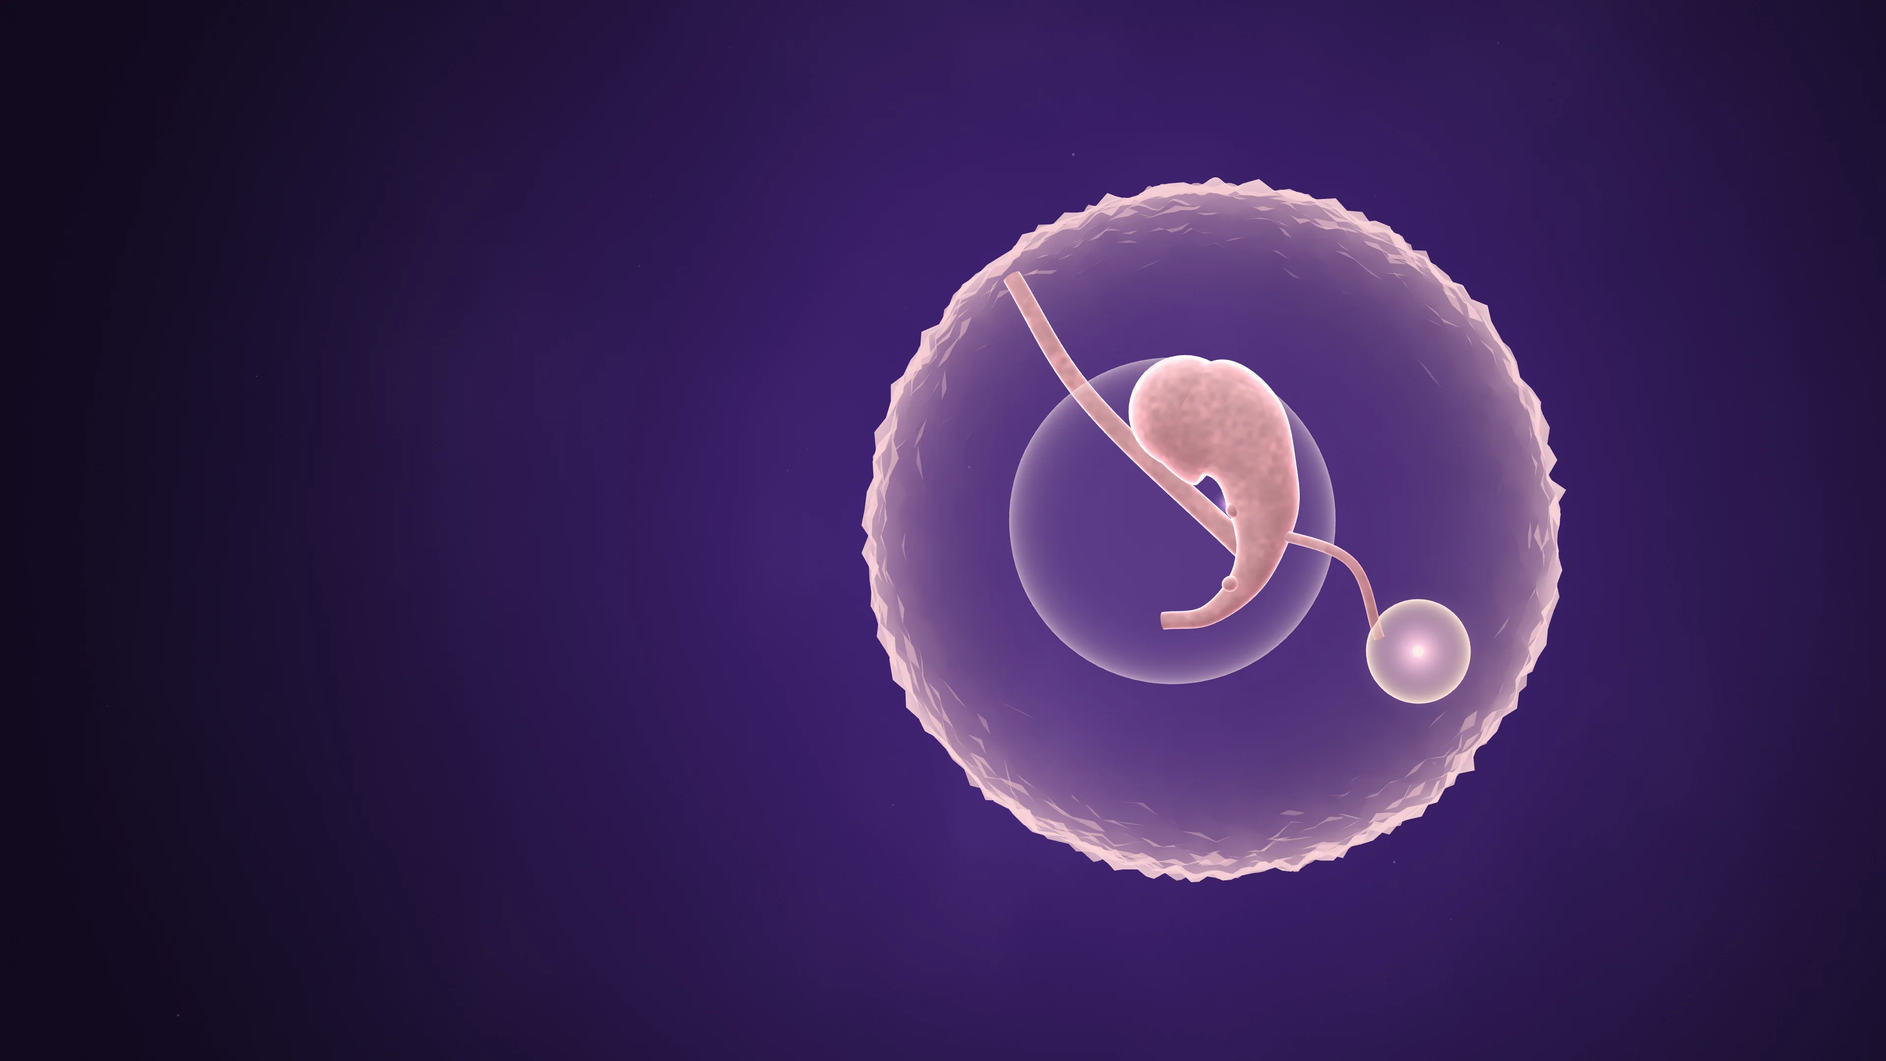
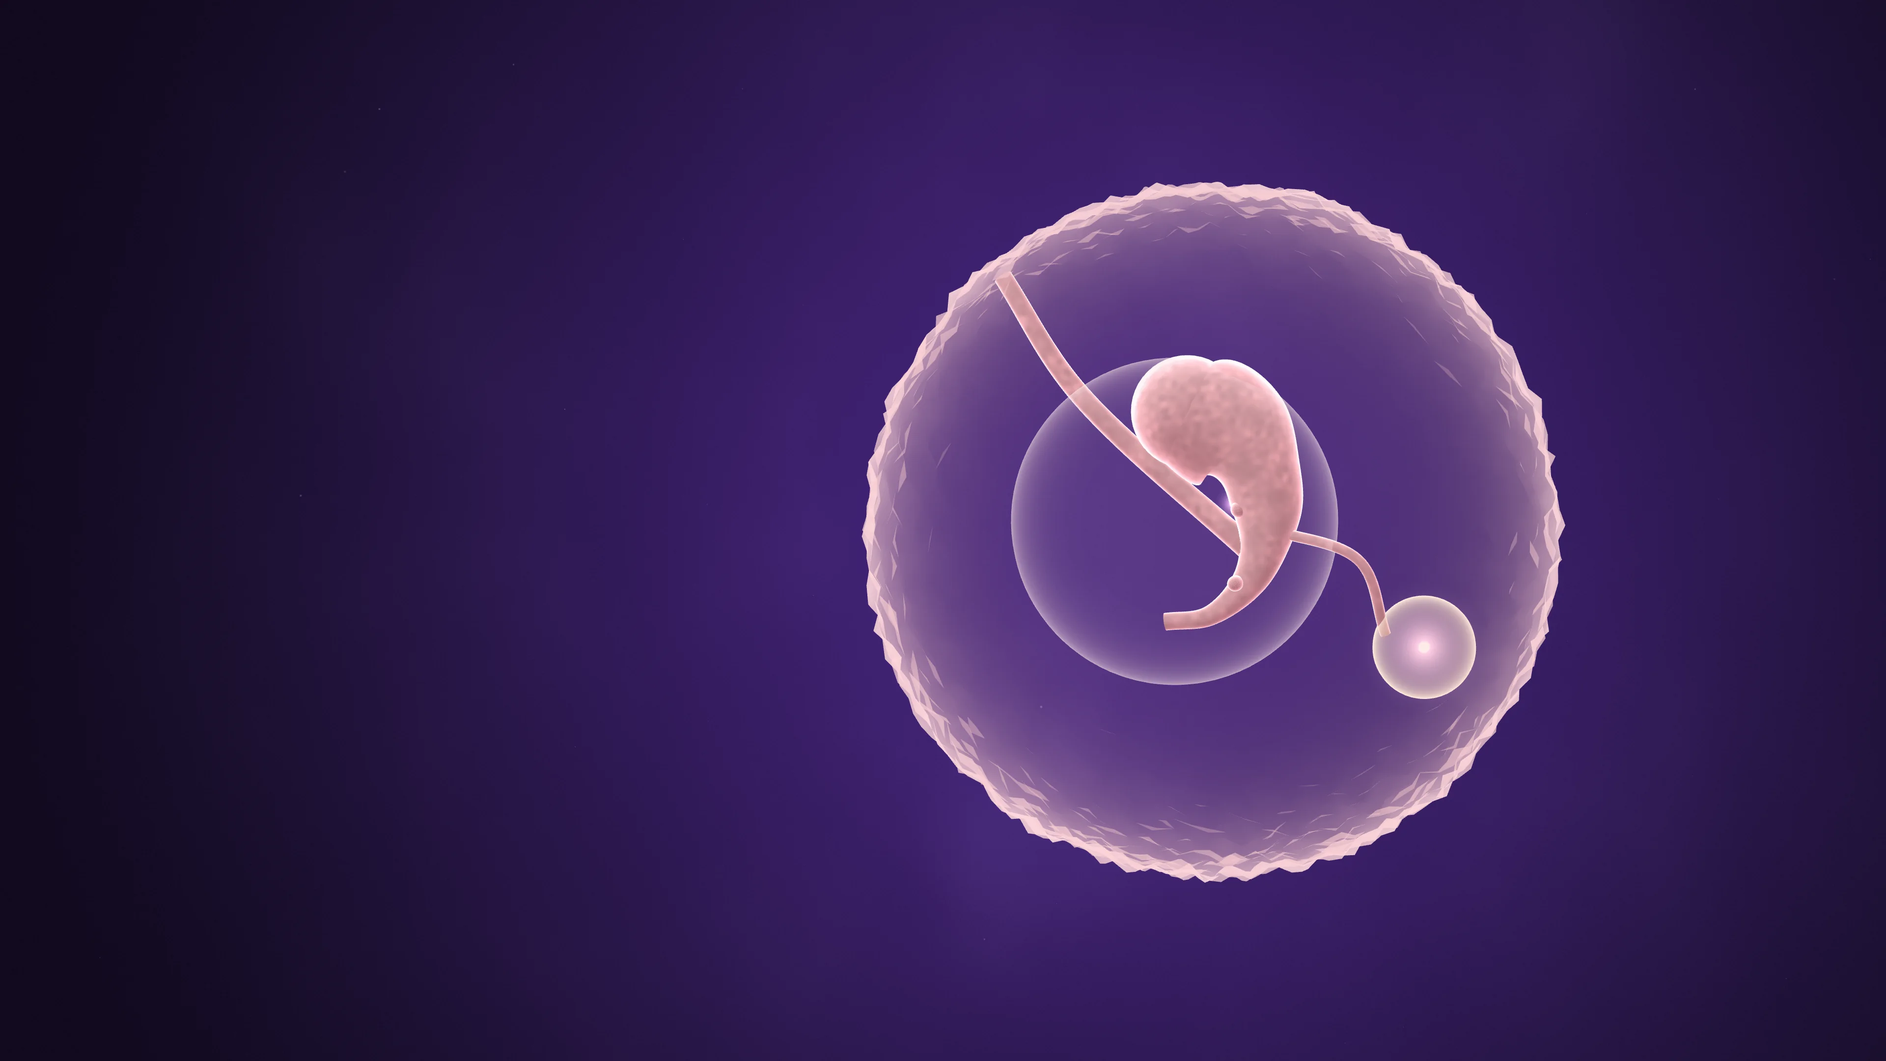
Story review fixes: always-on illustration notice, careful copy, a clothed figure
From an independent compliance and patient-sensitivity review of the new story:
- The "Illustration, not to scale · not a patient's treatment or result" notice
  now stays on screen for the whole story, phones included.
- Copy states risks instead of promising safety or comfort: monitoring lets the
  doctor adjust the dose and watch for side effects; egg collection is "a short
  procedure, under sedation" with cramping mentioned; AMH and follicle counts do
  not predict pregnancy; freezing embryos needs consent; bed rest is not needed;
  the early scan is dated, and no scan can promise how a pregnancy will go.
- Inclusive of single women; sperm preparation separates moving sperm rather
  than "selecting" them; the last chapter is "Every hope matters" and its
  buttons say what they do.
- The sculpture reads as clothed (a bodice, a neckline and a pallu), the belly
  window is soft lavender rather than a wine red that could read as bleeding,
  and the baby is porcelain cream rather than pink.
- Sculpture raymarch budgets scale with the GPU tier for phones.

diff --git a/src/lib/life/story.ts b/src/lib/life/story.ts
@@ -34,7 +34,7 @@ export const chapters: Chapter[] = [
   { n: 8, id: "implantation", title: "Implantation and the pregnancy test", from: 72, to: 78, anchor: 73.4 },
   { n: 9, id: "early-scan", title: "The early scan", from: 78, to: 85, anchor: 79.4 },
   { n: 10, id: "pregnancy", title: "Pregnancy", from: 85, to: 94, anchor: 86.4 },
-  { n: 11, id: "moment", title: "The moment that matters", from: 94, to: 100, anchor: 96.2 },
+  { n: 11, id: "moment", title: "Every hope matters", from: 94, to: 100, anchor: 96.2 },
 ];
 
 /** Which rendered scene is on screen for a given unit. Boundaries are hidden by a veil. */
@@ -137,7 +137,7 @@ export const captions: Caption[] = [
   cap(S.lab, 58.9, 62.3, "Fig. 6e", "Blastocyst: inner cell mass, outer layer and cavity", "about days 5–6"),
   cap(S.transfer, 63.2, 76.2, "Fig. 7", "Embryo transfer through the cervix, side view (embryo shown enlarged)"),
   cap(S.implant, 63.2, 67.2, "Fig. 8", "The blastocyst hatches from its shell, the zona", "about day 6"),
-  cap(S.implant, 67.2, 71.8, "Fig. 8a", "Implantation: the blastocyst begins to attach to the lining of the uterus (illustration)", "about days 6–10 after fertilisation"),
+  cap(S.implant, 67.2, 71.8, "Fig. 8a", "Implantation: the blastocyst begins to attach to the lining of the uterus (illustration)", "about days 6–10"),
   cap(S.scan, 77.2, 85.2, "Fig. 9", "Early pregnancy at about 7 weeks: gestational sac, yolk sac and a 1 cm embryo"),
   cap(S.life, 13, 23, "Fig. 10", "About 12 weeks: around 6 cm from head to bottom (illustration)"),
   cap(S.life, 23.5, 37, "Fig. 10a", "About 20 weeks: around 25 cm from head to heel"),
@@ -178,7 +178,7 @@ export const panels: Panel[] = [
     label: "Understanding fertility",
     heading: "Understanding your fertility is the *first step.*",
     level: 2,
-    body: ["Every person's fertility is different. That's why each journey at Momtree begins with an individual assessment of both partners, before any treatment is suggested."],
+    body: ["Every person's fertility is different. That's why each journey at Momtree begins with an assessment of you and, if you have one, your partner, before any treatment is suggested."],
   },
   {
     id: "c2b",
@@ -187,7 +187,7 @@ export const panels: Panel[] = [
     to: 18.4,
     heading: "What the first tests look at",
     level: 3,
-    body: ["Blood tests such as AMH, and an ultrasound count of the small resting follicles in each ovary, help estimate the egg supply. A semen analysis looks at sperm count, movement and shape."],
+    body: ["A blood test (AMH) and an ultrasound count of the small resting follicles help estimate the egg supply; on their own, they do not predict pregnancy. A semen analysis looks at sperm count, movement and shape."],
   },
   {
     id: "c3a",
@@ -197,13 +197,13 @@ export const panels: Panel[] = [
     label: "Ovarian stimulation",
     heading: "Growing *several eggs*, carefully.",
     level: 2,
-    body: ["For about 8 to 14 days, daily hormone injections encourage several follicles to grow at once. Regular ultrasound scans and blood tests follow their progress and keep the treatment safe."],
+    body: ["For about 8 to 14 days, daily hormone injections encourage several follicles to grow at once. Regular scans and blood tests follow their progress, so your doctor can adjust the dose and watch for side effects."],
   },
   {
     id: "c3b",
     chapter: 3,
-    from: 24.8,
-    to: 27.6,
+    from: 24.6,
+    to: 28.0,
     heading: "The trigger",
     level: 3,
     body: ["When the follicles are ready, a final trigger injection completes the eggs' maturation. Egg collection is timed for about 36 hours later."],
@@ -211,18 +211,18 @@ export const panels: Panel[] = [
   {
     id: "c4a",
     chapter: 4,
-    from: 28.8,
-    to: 32.4,
+    from: 28.6,
+    to: 32.2,
     label: "Egg collection",
-    heading: "A short, *gentle* procedure.",
+    heading: "A short procedure, *under sedation.*",
     level: 2,
-    body: ["Under sedation, a fine needle guided by ultrasound passes through the vaginal wall into each follicle and draws off the fluid. It usually takes 15 to 30 minutes."],
+    body: ["A fine needle, guided by ultrasound, passes through the vaginal wall into each follicle and draws off the fluid. It usually takes 15 to 30 minutes, and some cramping afterwards is common."],
   },
   {
     id: "c4b",
     chapter: 4,
-    from: 32.8,
-    to: 35.6,
+    from: 32.6,
+    to: 35.9,
     heading: "Into the laboratory",
     level: 3,
     body: ["An embryologist looks through the fluid for eggs under a microscope. Not every follicle holds an egg, and not every egg is mature."],
@@ -235,7 +235,7 @@ export const panels: Panel[] = [
     label: "Fertilisation",
     heading: "Where science meets the *possibility* of life.",
     level: 2,
-    body: ["The same day, the semen sample is washed and the most active sperm are selected. In conventional IVF, each egg is then placed with thousands of these sperm, and fertilisation is left to happen on its own."],
+    body: ["The same day, the semen sample is washed to separate the moving sperm. In conventional IVF, each egg is then placed with thousands of these sperm, and fertilisation is left to happen on its own."],
   },
   {
     id: "c5b",
@@ -257,7 +257,7 @@ export const panels: Panel[] = [
     label: "Embryo development",
     heading: "A remarkable journey, measured in the *smallest beginnings.*",
     level: 2,
-    body: ["About a day after fertilisation, two pronuclei appear. Then the cell divides: two cells, four, eight. By day four, the cells draw tightly together into a morula."],
+    body: ["The next day, two small round pronuclei show that the egg has been fertilised. Then the cell divides: two cells, four, eight. By day four, the cells draw tightly together into a ball called a morula."],
   },
   {
     id: "c6b",
@@ -267,7 +267,7 @@ export const panels: Panel[] = [
     heading: "Blastocyst culture",
     level: 3,
     body: [
-      "By day five or six, some embryos become blastocysts, with an inner cell mass and an outer layer that may form the placenta. Suitable embryos that are not transferred can be frozen for later.",
+      "By day five or six, some embryos become blastocysts, with an inner cell mass and an outer layer that may form the placenta. With your consent, suitable embryos that are not transferred can be frozen for later use.",
       "Not every embryo reaches this stage, and that is part of normal biology.",
     ],
   },
@@ -288,19 +288,19 @@ export const panels: Panel[] = [
     to: 71.6,
     heading: "After the transfer",
     level: 3,
-    body: ["Hormone support, usually progesterone, helps prepare the lining of the uterus. Whether the embryo implants happens on its own and cannot be guaranteed."],
+    body: ["Hormone support, usually progesterone, helps prepare the lining of the uterus. Bed rest is not needed. No one can guarantee that the embryo will implant."],
   },
   {
     id: "c8",
     chapter: 8,
-    from: 72.8,
-    to: 77.6,
+    from: 72.6,
+    to: 77.9,
     label: "Implantation and the pregnancy test",
     heading: "The *two-week* wait.",
     level: 2,
     body: [
-      "If an embryo implants, it hatches from its shell and settles into the lining of the uterus, usually within a few days of a blastocyst transfer. About two weeks after transfer, a blood test for the pregnancy hormone hCG shows whether this has happened.",
-      "Not every transfer leads to a pregnancy. Whatever the result, we talk it through with you and plan the next step together.",
+      "Over the next few days, the embryo may implant in the lining of the uterus. About two weeks after transfer, a blood test for the pregnancy hormone hCG shows whether this has happened.",
+      "Not every transfer leads to a pregnancy. Whatever the result, we will talk it through with you and help you decide what comes next.",
     ],
   },
   {
@@ -311,7 +311,7 @@ export const panels: Panel[] = [
     label: "The early scan",
     heading: "Hope takes a *new shape.*",
     level: 2,
-    body: ["An early ultrasound scan, often at six to seven weeks, checks that the pregnancy is in the uterus and looks for a heartbeat."],
+    body: ["An early ultrasound scan, often at six to seven weeks of pregnancy (about three to four weeks after transfer), checks that the pregnancy is in the uterus and looks for a heartbeat. It is still early, and no scan can promise how a pregnancy will go."],
   },
   {
     id: "c10a",

diff --git a/src/lib/life/scenes/sculpture.ts b/src/lib/life/scenes/sculpture.ts
@@ -141,8 +141,14 @@ vec2 mapFigure(vec3 p){
   d = smin(d, sdEllipsoid(p - vec3(0.0, 0.9, -0.012), vec3(0.168, 0.12, 0.114)), 0.08);
   d = smin(d, sdEllipsoid(p - vec3(0.0, 1.045, 0.0), vec3(0.124, 0.15, 0.088)), 0.08);
   d = smin(d, sdEllipsoid(p - vec3(0.0, 1.235, 0.004), vec3(0.146, 0.168, 0.094)), 0.07);
-  vec3 pb = vec3(abs(p.x), p.y, p.z);
-  d = smin(d, sdEllipsoid(pb - vec3(0.058, 1.228, 0.056), vec3(0.048, 0.045, 0.038)), 0.05);
+  // A soft bodice across the chest (no separate bust or cleavage line), a fine neckline, and a
+  // pallu draped from her left shoulder across the chest, so she reads as clothed.
+  d = smin(d, sdEllipsoid(p - vec3(0.0, 1.222, 0.03), vec3(0.13, 0.06, 0.07)), 0.06);
+  vec3 nq = p - vec3(0.0, 1.372, 0.004);
+  d = smin(d, length(vec2(length(nq.xz * vec2(1.0, 1.25)) - 0.052, nq.y)) - 0.009, 0.012);
+  float pallu = sdCapsule(p, vec3(0.13, 1.392, 0.0), vec3(0.02, 1.225, 0.116), 0.021);
+  pallu = min(pallu, sdCapsule(p, vec3(0.02, 1.225, 0.116), vec3(-0.115, 1.035, 0.098), 0.021));
+  d = smin(d, pallu, 0.028);
   d = smin(d, sdCapsule(p, vec3(-0.142, 1.358, -0.016), vec3(0.142, 1.358, -0.016), 0.043), 0.065);
   d = smin(d, sdCapsule(p, vec3(0.0, 1.37, -0.005), NECK_TOP, 0.037), 0.045);
   d = smin(d, sdHead(p), 0.03);
@@ -208,7 +214,7 @@ vec3 fetusNormal(vec3 p){
 }
 float figureAO(vec3 p, vec3 n){
   float occ = 0.0, sca = 1.0;
-  for (int i = 0; i < 5; i++) {
+  for (int i = 0; i < AOS; i++) {
     float h = 0.008 + 0.045 * float(i);
     occ += (h - mapFigure(p + n * h).x) * sca;
     sca *= 0.72;
@@ -242,11 +248,12 @@ vec3 porcelain(vec3 p, vec3 n, vec3 rd, float mat){
   return c;
 }
 vec3 inner(vec3 p, vec3 n, vec3 rd, float mat){
-  vec3 base = mat < 4.5 ? vec3(1.0, 0.8, 0.78) : (mat < 5.5 ? vec3(0.66, 0.26, 0.34) : vec3(0.92, 0.86, 0.96));
+  // Porcelain cream for the baby (no pink or blue), a muted rose placenta, a pearly cord.
+  vec3 base = mat < 4.5 ? vec3(0.97, 0.9, 0.85) : (mat < 5.5 ? vec3(0.74, 0.46, 0.56) : vec3(0.92, 0.86, 0.96));
   vec3 L = normalize(vec3(-0.4, 0.8, 0.6));
   float wrap = clamp((dot(n, L) + 0.6) / 1.6, 0.0, 1.0);
   float fres = pow(1.0 - clamp(dot(n, -rd), 0.0, 1.0), 2.0);
-  return base * (0.32 + 0.78 * wrap) + vec3(1.0, 0.72, 0.78) * fres * 0.32;
+  return base * (0.32 + 0.78 * wrap) + vec3(0.92, 0.86, 1.0) * fres * 0.32;
 }
 
 vec2 cylinder(vec3 ro, vec3 rd, float r){
@@ -300,13 +307,13 @@ void main(){
       vec3 wq = (P - uWinC) / uWinR;
       float win = uGlass * smoothstep(1.32, 0.86, length(wq)) * smoothstep(-0.2, 0.3, dot(n, normalize(P - uWinC))) * step(res.y, 1.1);
       if (win > 0.003) {
-        vec3 amnion = vec3(0.3, 0.1, 0.2);
+        vec3 amnion = vec3(0.52, 0.44, 0.64); // soft lavender, never wine red
         vec3 seen = amnion + uGlowCol * 0.12;
         if (uFetusOn > 0.5) {
           float ft = 0.002;
           float fh = -1.0;
           vec2 fr = vec2(0.0);
-          for (int i = 0; i < 56; i++) {
+          for (int i = 0; i < FSTEPS; i++) {
             vec3 q = P + rd * ft;
             fr = mapFetus(q);
             if (fr.x < 0.0004) { fh = ft; break; }
@@ -406,13 +413,16 @@ export class SculptureScene implements StoryScene {
     this.id = beats.id;
     this.beats = beats;
     this.rig = new Rig(beats.camera);
+    // Raymarch budgets by GPU tier: the figure, the view through the belly window, and occlusion.
     const steps = tier === "high" ? 110 : tier === "mid" ? 84 : 64;
+    const fsteps = tier === "high" ? 56 : tier === "mid" ? 40 : 30;
+    const aos = tier === "high" ? 5 : 3;
     const vec = () => ({ value: new THREE.Vector3() });
     const m3 = () => ({ value: new THREE.Matrix3() });
     this.mat = new THREE.ShaderMaterial({
       vertexShader: QUAD_VERT,
       fragmentShader: FRAG,
-      defines: { STEPS: steps },
+      defines: { STEPS: steps, FSTEPS: fsteps, AOS: aos },
       depthTest: true,
       depthWrite: true,
       depthFunc: THREE.AlwaysDepth,

diff --git a/src/components/life/LifeUnfolds.tsx b/src/components/life/LifeUnfolds.tsx
@@ -340,26 +340,29 @@ export function LifeUnfolds() {
             {p.cta === "final" && (
               <div className="mt-9 flex flex-wrap gap-3">
                 <Link href="/contact#appointment" className="btn btn-leaf">
-                  Begin your journey <ArrowRight />
+                  Book a consultation <ArrowRight />
                 </Link>
-                <a href={whatsappLink("Hello Momtree IVF, I would like to speak with your fertility specialist.")} target="_blank" rel="noopener noreferrer" className="btn btn-light">
-                  Talk to our fertility specialist
+                <a href={whatsappLink()} target="_blank" rel="noopener noreferrer" className="btn btn-light">
+                  Message us on WhatsApp
                 </a>
               </div>
             )}
           </article>
         ))}
 
-        {/* Figure caption, day counter, scale bar */}
-        <div ref={capWrap} className="life-caption" style={{ opacity: 0 }} aria-hidden="true">
-          <span ref={capFig} className="life-fig" />
-          <span ref={capText} className="life-captext" />
-          <span ref={capDay} className="life-day" />
-          <div ref={scaleEl} className="life-scale" style={{ opacity: 0 }}>
-            <span ref={scaleBar} className="life-scale-bar" />
-            <span ref={scaleLabel} className="life-scale-label" />
+        {/* Figure caption, day counter, scale bar. The illustration notice sits outside the fading part,
+            so it stays on screen for the whole story. */}
+        <div className="life-caption" aria-hidden="true">
+          <div ref={capWrap} className="life-caption-body" style={{ opacity: 0 }}>
+            <span ref={capFig} className="life-fig" />
+            <span ref={capText} className="life-captext" />
+            <span ref={capDay} className="life-day" />
+            <div ref={scaleEl} className="life-scale" style={{ opacity: 0 }}>
+              <span ref={scaleBar} className="life-scale-bar" />
+              <span ref={scaleLabel} className="life-scale-label" />
+            </div>
           </div>
-          <span className="life-illus">Illustrative visualisation · not an individual outcome</span>
+          <span className="life-illus">{"Illustration, not to scale · not a patient's treatment or result"}</span>
         </div>
 
         {/* Bottom HUD: growth rings + chapter, skip, sound */}
@@ -583,11 +586,11 @@ function StaticStory() {
                     {p.cta && (
                       <div className="mt-8 flex flex-wrap gap-3">
                         <Link href="/contact#appointment" className={`btn ${dark ? "btn-light" : "btn-solid"}`}>
-                          {p.cta === "hero" ? "Book a consultation" : "Begin your journey"}
+                          Book a consultation
                         </Link>
                         {p.cta === "final" && (
                           <a href={whatsappLink()} target="_blank" rel="noopener noreferrer" className="btn">
-                            Talk to our fertility specialist
+                            Message us on WhatsApp
                           </a>
                         )}
                       </div>
@@ -604,7 +607,7 @@ function StaticStory() {
                 {c.n > 1 && (
                   <figcaption>
                     <span className="pl">Fig. {c.n}</span>
-                    <span>{c.title}. {photo ? "AI-generated image, not a patient." : "Illustrative visualisation, not to scale; not an individual outcome."}</span>
+                    <span>{c.title}. {photo ? "AI-generated image, not a patient." : "Illustration, not to scale; not a patient's treatment or result."}</span>
                   </figcaption>
                 )}
               </figure>

diff --git a/src/lib/life/scenes/specimen.ts b/src/lib/life/scenes/specimen.ts
@@ -546,7 +546,7 @@ export class SpecimenScene implements StoryScene {
         { id: "pronuclei", pos: w(new THREE.Vector3(0.12, 0.13, 0.05)), a: windowed(u, 41.8, 44.4) },
         { id: "icm", pos: this.body.localToWorld(this.icmCentre.clone().add(new THREE.Vector3(0, 0.05, 0))), a: windowed(u, 59.4, 62.2) },
         { id: "hatch", pos: this.body.localToWorld(new THREE.Vector3(0, 0, 0)).add(new THREE.Vector3(0, 0.78, 0.2)), a: windowed(u, 64, 67.2) },
-        { id: "endometrium", pos: w(new THREE.Vector3(1.05, 0.95, -1.15)), a: windowed(u, 67.4, 71.8) },
+        { id: "endometrium", pos: w(new THREE.Vector3(-0.9, 0.75, -1.15)), a: windowed(u, 67.4, 71.8) },
         { id: "te", pos: w(new THREE.Vector3(0.62, -0.25, 0.1)), a: windowed(u, 59.8, 62.2) },
         { id: "cavity", pos: w(new THREE.Vector3(-0.05, -0.18, 0.1)), a: windowed(u, 60.2, 62.2) },
       ],

diff --git a/src/components/life/life.css b/src/components/life/life.css
@@ -248,12 +248,21 @@
   letter-spacing: 0.16em;
   font-variant-numeric: tabular-nums;
 }
+.life-caption-body {
+  display: flex;
+  flex-direction: column;
+  gap: 4px;
+  align-items: flex-end;
+}
 .life-illus {
   margin-top: 14px;
   font-size: 10px;
   letter-spacing: 0.14em;
   text-transform: uppercase;
-  opacity: 0.65;
+  color: rgb(255 255 255 / 0.85);
+  text-shadow:
+    0 0 2px rgb(14 7 25 / 0.9),
+    0 1px 10px rgb(14 7 25 / 0.7);
 }
 
 /* ---------------------------------------------------------------- bottom HUD */
@@ -397,9 +406,13 @@
     right: var(--gutter);
     width: 62vw;
   }
-  .life-captext,
-  .life-illus {
+  .life-captext {
     display: none;
+  }
+  .life-illus {
+    margin-top: 8px;
+    font-size: 8.5px;
+    letter-spacing: 0.1em;
   }
   .life-label {
     font-size: 9.5px;

diff --git a/docs/APPROVAL-CHECKLIST.md b/docs/APPROVAL-CHECKLIST.md
@@ -58,12 +58,12 @@ Knowledge Centre:
 
 ## 4. Life Unfolds (home page story)
 
-The story now follows IVF in order, in eleven chapters, all in 3D: the beginning; understanding fertility; ovarian stimulation; egg collection; fertilisation; embryo development; embryo transfer; implantation and the pregnancy test; the early scan; pregnancy; the moment that matters.
+The story now follows IVF in order, in eleven chapters, all in 3D: the beginning; understanding fertility; ovarian stimulation; egg collection; fertilisation; embryo development; embryo transfer; implantation and the pregnancy test; the early scan; pregnancy; every hope matters.
 
 - [ ] Medical review of every visualisation: anatomy (front view) and resting (antral) follicles; stimulation with several follicles growing in both ovaries; the monitoring scan; the trigger; egg collection (schematic: a transvaginal needle under ultrasound draining follicles, fluid to the laboratory); fertilisation by IVF and ICSI; pronuclei; cleavage stages with day labels; morula; blastocyst; transcervical transfer under ultrasound; hatching and the start of implantation; early pregnancy at about 7 weeks (heart at about 135 beats a minute); the sculptural pregnancy at about 12, 20, 28 and 36 weeks (sizes by week, the baby turning head-down, one continuous cord to a placenta on the uterine wall); and the newborn in her arms.
 - [ ] Timings in the captions against Momtree's own practice: length of stimulation, trigger-to-collection interval, day of transfer, day of the pregnancy test, timing of the early scan, progesterone support and embryo-number policy.
 - [ ] Caption and chapter wording, including the statements that fertilisation, implantation and pregnancy are not guaranteed.
-- [ ] The sculptural mother and baby: a stylised porcelain figure built in code, faceless, draped, not a likeness of anyone.
+- [ ] The sculptural mother and baby: a stylised porcelain figure built in code, faceless and clothed (a bodice and a pallu across the chest), not a likeness of anyone.
 - [ ] Use of the three generated photographs (mother, hands, newborn), now only in the reduced-motion version and the share card, each marked "AI-generated image, not a patient".
 - [ ] **20-week illustration (optional, still image only).** The live story shows the pregnancy in 3D. A reviewed AI illustration could also appear in the reduced-motion version; a first version was rejected internally (cord drawn in two pieces, floating placenta). Approve a new render, or leave it out.
 - [ ] Sound: an original synthesised score. Optional: supply a licensed baby-coo recording.
